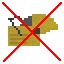
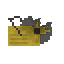
feat - EMERGENCY PUSH

Changed region(s): [[0.0312, 0.0312, 0.9688, 0.9688]]

diff --git a/src/main/java/nz/ac/auckland/se206/controllers/Room3Controller.java b/src/main/java/nz/ac/auckland/se206/controllers/Room3Controller.java
@@ -1,6 +1,7 @@
 package nz.ac.auckland.se206.controllers;
 
 import java.io.IOException;
+import javafx.animation.Animation;
 import javafx.animation.KeyFrame;
 import javafx.animation.Timeline;
 import javafx.animation.TranslateTransition;
@@ -50,6 +51,7 @@ public class Room3Controller extends Room {
   @FXML private ImageView imgSlidingDoor;
   @FXML private ImageView imgConveyorResin;
   @FXML private ImageView imgConveyor;
+  @FXML private ImageView lockedScreen;
 
   private Color pinPadDark;
   private Color pinPadLight;
@@ -63,9 +65,11 @@ public class Room3Controller extends Room {
   private Timeline resetPinPad;
   private Timeline resolvePinPad;
   private boolean conveyorIsActive;
+  private Timeline resinMovement;
+  private TranslateTransition tempTransition;
 
   private String[] pinHints = {
-    "Clock", "AI Eyes", "3D Printers", "Rooms", "16 mod 6",
+    "Clock", "AI eyes", "3D Printers", "Rooms", "16 mod 6",
     "Shelves", "Sticky Note", "Lasers", "AI Version Number", "(3 ^ 3) - 18"
   };
 
@@ -88,7 +92,8 @@ public class Room3Controller extends Room {
 
     /* Setting text relating to 4 objects that can help the player guess the pin */
     pinHintText.setText(
-        pinHints[pin.charAt(0) - 48]
+        "Saw is broken, take to repair bay to fix it :)\n\n"
+            + pinHints[pin.charAt(0) - 48]
             + "\n"
             + pinHints[pin.charAt(1) - 48]
             + "\n"
@@ -112,6 +117,36 @@ public class Room3Controller extends Room {
 
     /* initialize lighting animations */
     initializeLightAnim(lightOverlay, "rightRoomShadow", true);
+
+    resinMovement =
+        new Timeline(
+            new KeyFrame(
+                Duration.millis(500),
+                e -> {
+                  imgConveyorResin.setVisible(true);
+                  tempTransition = new TranslateTransition(Duration.millis(500), imgConveyorResin);
+                  tempTransition.setByX(-535);
+                  tempTransition.play();
+                }),
+            new KeyFrame(
+                Duration.millis(750),
+                e -> {
+                  tempTransition = new TranslateTransition(Duration.millis(250), imgConveyorResin);
+                  tempTransition.setByY(-235);
+                  tempTransition.play();
+                }),
+            new KeyFrame(
+                Duration.millis(850),
+                e -> {
+                  imgConveyorResin.setVisible(false);
+                  tempTransition = new TranslateTransition(Duration.millis(100), imgConveyorResin);
+                  tempTransition.setByX(535);
+                  tempTransition.setByY(235);
+                  tempTransition.play();
+                }));
+
+    resinMovement.setCycleCount(Animation.INDEFINITE);
+    resinMovement.play();
 
     /* Animation and event timeline for entering the wrong pin */
     resetPinPad =
@@ -172,6 +207,7 @@ public class Room3Controller extends Room {
                   pinPadUi.setVisible(false);
                   pinTextField.setText(pinPadResolvedMessage);
                   App.topBarController.giveItem(TopBarController.Item.SAW_BROKEN);
+                  lockedScreen.setImage(new Image("/images/rightRoomScreenUnlocked.png"));
                   battery.setOpacity(0);
                   TranslateTransition openDoor =
                       new TranslateTransition(Duration.millis(250), imgSlidingDoor);
@@ -200,10 +236,12 @@ public class Room3Controller extends Room {
 
   public void lightsOff() {
     lightsOff.playFromStart();
+    deactivateConveyor();
   }
 
   public void lightsOn() {
     lightsOn.playFromStart();
+    activateConveyor();
   }
 
   @FXML

diff --git a/src/main/java/nz/ac/auckland/se206/controllers/Room1Controller.java b/src/main/java/nz/ac/auckland/se206/controllers/Room1Controller.java
@@ -41,6 +41,8 @@ public class Room1Controller extends Room {
   @FXML private Rectangle triggerDropSaw;
   @FXML private ImageView imgConveyor;
   @FXML private ImageView imgMachineResin;
+  @FXML private ImageView resinScreen;
+  @FXML private ImageView sawScreen;
 
   private Timeline takeBrokenSaw;
   private Timeline giveFixedSaw;
@@ -139,6 +141,7 @@ public class Room1Controller extends Room {
       triggerDropSaw.setCursor(Cursor.DEFAULT);
     } else if (App.topBarController.hasItem(TopBarController.Item.SAW_BROKEN)) {
       App.topBarController.removeItem(TopBarController.Item.SAW_BROKEN);
+      sawScreen.setImage(new Image("/images/leftRoomScreenComplete.png"));
       imgConveyorSaw.setVisible(true);
       takeBrokenSaw.play();
       activateConveyor(false);
@@ -152,6 +155,7 @@ public class Room1Controller extends Room {
       App.topBarController.removeItem(TopBarController.Item.RESIN);
       imgMachineResin.setVisible(true);
       materialDeposited = true;
+      resinScreen.setImage(new Image("/images/leftRoomScreenComplete.png"));
       checkForMachineStart();
     }
   }
